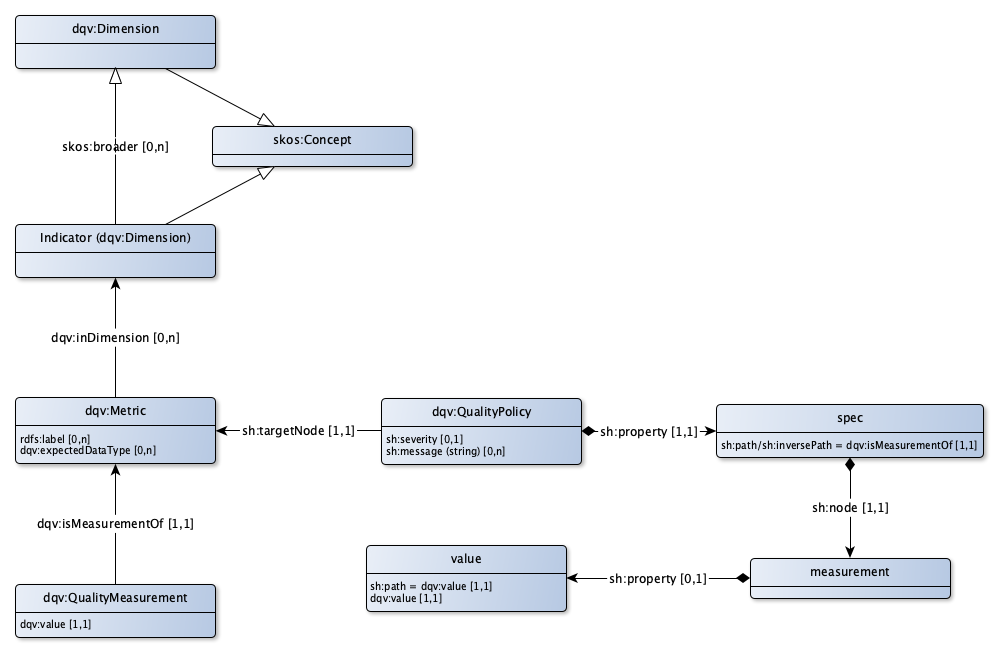
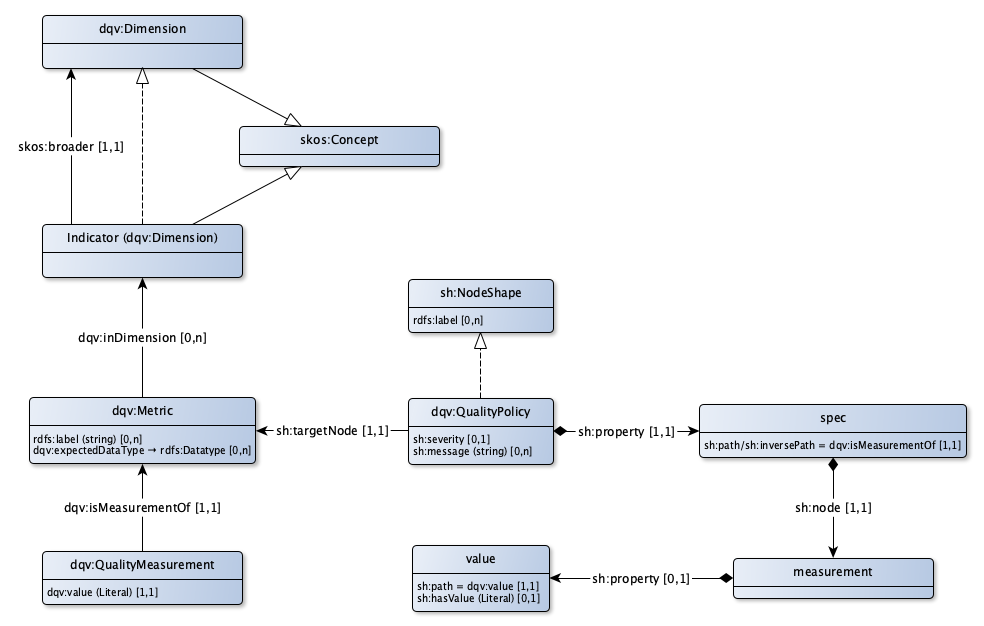
Update dqv

diff --git a/model/dqv-ap-sc.md b/model/dqv-ap-sc.md
@@ -17,7 +17,8 @@ Datakwaliteit
 
 |!form data!Klasse|Kwaliteitsindicator
 |----------|------
-|Eigenschappen en relaties|[http://bp4mc2.org/profiles/dqv-ap-sc#QualityIndicator_broader](http://bp4mc2.org/profiles/dqv-ap-sc#QualityIndicator_broader)
+|Getypeerd als|[dqv:Dimension](http://www.w3.org/ns/dqv#Dimension)
+|Eigenschappen en relaties|[Specialisatie van](http://bp4mc2.org/profiles/dqv-ap-sc#QualityIndicator_broader)
 
 
 ## Meting
@@ -25,72 +26,83 @@ Datakwaliteit
 |!form data!Klasse|Meetfunctie
 |----------|------
 |Gebruikte term|[dqv:Metric](http://www.w3.org/ns/dqv#Metric)
-|Eigenschappen en relaties|[http://bp4mc2.org/profiles/dqv-ap-sc#Metric_inDimension](http://bp4mc2.org/profiles/dqv-ap-sc#Metric_inDimension), [http://bp4mc2.org/profiles/dqv-ap-sc#Metric_label](http://bp4mc2.org/profiles/dqv-ap-sc#Metric_label), [http://bp4mc2.org/profiles/dqv-ap-sc#Metric_expectedDataType](http://bp4mc2.org/profiles/dqv-ap-sc#Metric_expectedDataType)
+|Eigenschappen en relaties|[Verwachtte datatype](http://bp4mc2.org/profiles/dqv-ap-sc#Metric_expectedDataType), [in dimensie](http://bp4mc2.org/profiles/dqv-ap-sc#Metric_inDimension), [Label](http://bp4mc2.org/profiles/dqv-ap-sc#Metric_label)
 
 
 ### Eigenschappen
 
+|!form data!Eigenschap|Label
+|----------|------
+|Gebruikte term|[rdfs:label](http://www.w3.org/2000/01/rdf-schema#label)
+|Datatype|[Tekst](http://www.w3.org/2001/XMLSchema#string)
+|Uitleg|Een meting kent een voor mensen leesbaar label
+
 
 ### Relaties
 
-|!form data!Eigenschap|Waarde
+|!form data!Eigenschap|Verwachtte datatype
 |----------|------
 |Gebruikte term|[dqv:expectedDataType](http://www.w3.org/ns/dqv#expectedDataType)
+|Verwijst naar|[rdfs:Datatype](http://www.w3.org/2000/01/rdf-schema#Datatype)
+|Uitleg|Het te verwachten datatype van de meting
 
-|!form data!Eigenschap|Waarde
+|!form data!Eigenschap|in dimensie
 |----------|------
 |Gebruikte term|[dqv:inDimension](http://www.w3.org/ns/dqv#inDimension)
 |Relatie met|[Kwaliteitsindicator](http://bp4mc2.org/profiles/dqv-ap-sc#QualityIndicator)
-
-|!form data!Eigenschap|Waarde
-|----------|------
-|Gebruikte term|[rdfs:label](http://www.w3.org/2000/01/rdf-schema#label)
+|Uitleg|Een meting betreft een kwaliteitsdimensie
 
 
 ## Kwaliteitsmeetwaarde
 
-|!form data!Klasse|Waarde
+|!form data!Klasse|Kwaliteitsmeetwaarde
 |----------|------
 |Gebruikte term|[dqv:QualityMeasurement](http://www.w3.org/ns/dqv#QualityMeasurement)
-|Eigenschappen en relaties|[http://bp4mc2.org/profiles/dqv-ap-sc#QualityMeasurement_isMeasurementOf](http://bp4mc2.org/profiles/dqv-ap-sc#QualityMeasurement_isMeasurementOf), [http://bp4mc2.org/profiles/dqv-ap-sc#QualityMeasurement_value](http://bp4mc2.org/profiles/dqv-ap-sc#QualityMeasurement_value)
+|Eigenschappen en relaties|[is meetwaarde van](http://bp4mc2.org/profiles/dqv-ap-sc#QualityMeasurement_isMeasurementOf), [waarde](http://bp4mc2.org/profiles/dqv-ap-sc#QualityMeasurement_value)
 
 
 ### Eigenschappen
 
-
-### Relaties
-
-|!form data!Eigenschap|Waarde
+|!form data!Eigenschap|waarde
 |----------|------
-|nodeKind|[http://www.w3.org/ns/shacl#BlankNode](http://www.w3.org/ns/shacl#BlankNode)
-|Gebruikte term|[sh:property](http://www.w3.org/ns/shacl#property)
-|Relatie met|[http://bp4mc2.org/profiles/dqv-ap-sc#QualityPolicySpec](http://bp4mc2.org/profiles/dqv-ap-sc#QualityPolicySpec)
-|Min card.|1
-|Max card.|1
-
-|!form data!Eigenschap|Waarde
-|----------|------
-|Max card.|1
-
-|!form data!Eigenschap|Waarde
-|----------|------
-|Verwijst naar|[dqv:Metric](http://www.w3.org/ns/dqv#Metric)
+|Gebruikte term|[dqv:value](http://www.w3.org/ns/dqv#value)
+|Datatype|[rdfs:Literal](http://www.w3.org/2000/01/rdf-schema#Literal)
+|Uitleg|De uitkomst van de meting, de waarde
 |Min card.|1
 |Max card.|1
 
 
 ### Relaties
 
-|!form data!Eigenschap|Waarde
+|!form data!Eigenschap|is meetwaarde van
 |----------|------
 |Gebruikte term|[dqv:isMeasurementOf](http://www.w3.org/ns/dqv#isMeasurementOf)
 |Verwijst naar|[dqv:Metric](http://www.w3.org/ns/dqv#Metric)
+|Uitleg|Geeft de meting aan waar deze meetwaarde een uitkomst van is
 |Min card.|1
 |Max card.|1
 
-|!form data!Eigenschap|Waarde
+
+### Relaties
+
+|!form data!Eigenschap|eigenschap
 |----------|------
-|Gebruikte term|[dqv:value](http://www.w3.org/ns/dqv#value)
+|nodeKind|[http://www.w3.org/ns/shacl#BlankNode](http://www.w3.org/ns/shacl#BlankNode)
+|Gebruikte term|[sh:property](http://www.w3.org/ns/shacl#property)
+|Relatie met|[Specificatie van de eis](http://bp4mc2.org/profiles/dqv-ap-sc#QualityPolicySpec)
+|Uitleg|De regel behorende bij de kwaliteitseis
+|Min card.|1
+|Max card.|1
+
+|!form data!Eigenschap|ernst
+|----------|------
+|Uitleg|De ernst van de kwaliteitseis
+|Max card.|1
+
+|!form data!Eigenschap|betreft
+|----------|------
+|Verwijst naar|[dqv:Metric](http://www.w3.org/ns/dqv#Metric)
+|Uitleg|De meting waar deze kwaliteitseis voor geldt
 |Min card.|1
 |Max card.|1
 
@@ -99,13 +111,15 @@ Datakwaliteit
 
 |!form data!Klasse|Kwaliteitseis
 |----------|------
-|Eigenschappen en relaties|[http://bp4mc2.org/profiles/dqv-ap-sc#QualityPolicy_targetNode](http://bp4mc2.org/profiles/dqv-ap-sc#QualityPolicy_targetNode), [http://bp4mc2.org/profiles/dqv-ap-sc#QualityPolicy_severity](http://bp4mc2.org/profiles/dqv-ap-sc#QualityPolicy_severity), [http://bp4mc2.org/profiles/dqv-ap-sc#QualityPolicy_message](http://bp4mc2.org/profiles/dqv-ap-sc#QualityPolicy_message), [http://bp4mc2.org/profiles/dqv-ap-sc#QualityPolicy_property](http://bp4mc2.org/profiles/dqv-ap-sc#QualityPolicy_property)
+|Getypeerd als|[sh:NodeShape](http://www.w3.org/ns/shacl#NodeShape)
+|Eigenschappen en relaties|[melding](http://bp4mc2.org/profiles/dqv-ap-sc#QualityPolicy_message), [eigenschap](http://bp4mc2.org/profiles/dqv-ap-sc#QualityPolicy_property), [ernst](http://bp4mc2.org/profiles/dqv-ap-sc#QualityPolicy_severity), [betreft](http://bp4mc2.org/profiles/dqv-ap-sc#QualityPolicy_targetNode)
 
 
 ### Eigenschappen
 
-|!form data!Eigenschap|Waarde
+|!form data!Eigenschap|melding
 |----------|------
 |Datatype|[Tekst](http://www.w3.org/2001/XMLSchema#string)
+|Uitleg|De melding die gerapporteerd wordt als de meting niet voldoet aan de kwaliteitseis
 
 

diff --git a/model/en/dqv-ap-sc.md b/model/en/dqv-ap-sc.md
@@ -17,7 +17,8 @@ Data quality
 
 |!form data!Klasse|Quality indicator
 |----------|------
-|Properties en relations|[http://bp4mc2.org/profiles/dqv-ap-sc#QualityIndicator_broader](http://bp4mc2.org/profiles/dqv-ap-sc#QualityIndicator_broader)
+|Typed as|[dqv:Dimension](http://www.w3.org/ns/dqv#Dimension)
+|Properties en relations|[Specialization of](http://bp4mc2.org/profiles/dqv-ap-sc#QualityIndicator_broader)
 
 
 ## Metric
@@ -25,72 +26,83 @@ Data quality
 |!form data!Klasse|Quality metric
 |----------|------
 |Used term|[dqv:Metric](http://www.w3.org/ns/dqv#Metric)
-|Properties en relations|[http://bp4mc2.org/profiles/dqv-ap-sc#Metric_inDimension](http://bp4mc2.org/profiles/dqv-ap-sc#Metric_inDimension), [http://bp4mc2.org/profiles/dqv-ap-sc#Metric_label](http://bp4mc2.org/profiles/dqv-ap-sc#Metric_label), [http://bp4mc2.org/profiles/dqv-ap-sc#Metric_expectedDataType](http://bp4mc2.org/profiles/dqv-ap-sc#Metric_expectedDataType)
+|Properties en relations|[Expected datatype](http://bp4mc2.org/profiles/dqv-ap-sc#Metric_expectedDataType), [in dimension](http://bp4mc2.org/profiles/dqv-ap-sc#Metric_inDimension), [Label](http://bp4mc2.org/profiles/dqv-ap-sc#Metric_label)
 
 
 ### Properties
 
+|!form data!Eigenschap|Label
+|----------|------
+|Used term|[rdfs:label](http://www.w3.org/2000/01/rdf-schema#label)
+|Datatype|[Text](http://www.w3.org/2001/XMLSchema#string)
+|Description|A metric has a human readable label
+
 
 ### Relations
 
-|!form data!Eigenschap|Waarde
+|!form data!Eigenschap|Expected datatype
 |----------|------
 |Used term|[dqv:expectedDataType](http://www.w3.org/ns/dqv#expectedDataType)
+|Refers to|[rdfs:Datatype](http://www.w3.org/2000/01/rdf-schema#Datatype)
+|Description|The expected datatype of the metric
 
-|!form data!Eigenschap|Waarde
+|!form data!Eigenschap|in dimension
 |----------|------
 |Used term|[dqv:inDimension](http://www.w3.org/ns/dqv#inDimension)
 |Related with|[Quality indicator](http://bp4mc2.org/profiles/dqv-ap-sc#QualityIndicator)
-
-|!form data!Eigenschap|Waarde
-|----------|------
-|Used term|[rdfs:label](http://www.w3.org/2000/01/rdf-schema#label)
+|Description|A metric is within a particular quality dimension
 
 
 ## Quality measurement
 
-|!form data!Klasse|Waarde
+|!form data!Klasse|Quality measurement
 |----------|------
 |Used term|[dqv:QualityMeasurement](http://www.w3.org/ns/dqv#QualityMeasurement)
-|Properties en relations|[http://bp4mc2.org/profiles/dqv-ap-sc#QualityMeasurement_isMeasurementOf](http://bp4mc2.org/profiles/dqv-ap-sc#QualityMeasurement_isMeasurementOf), [http://bp4mc2.org/profiles/dqv-ap-sc#QualityMeasurement_value](http://bp4mc2.org/profiles/dqv-ap-sc#QualityMeasurement_value)
+|Properties en relations|[is measurement of](http://bp4mc2.org/profiles/dqv-ap-sc#QualityMeasurement_isMeasurementOf), [value](http://bp4mc2.org/profiles/dqv-ap-sc#QualityMeasurement_value)
 
 
 ### Properties
 
-
-### Relations
-
-|!form data!Eigenschap|Waarde
+|!form data!Eigenschap|value
 |----------|------
-|nodeKind|[http://www.w3.org/ns/shacl#BlankNode](http://www.w3.org/ns/shacl#BlankNode)
-|Used term|[sh:property](http://www.w3.org/ns/shacl#property)
-|Related with|[http://bp4mc2.org/profiles/dqv-ap-sc#QualityPolicySpec](http://bp4mc2.org/profiles/dqv-ap-sc#QualityPolicySpec)
-|Min card.|1
-|Max card.|1
-
-|!form data!Eigenschap|Waarde
-|----------|------
-|Max card.|1
-
-|!form data!Eigenschap|Waarde
-|----------|------
-|Refers to|[dqv:Metric](http://www.w3.org/ns/dqv#Metric)
+|Used term|[dqv:value](http://www.w3.org/ns/dqv#value)
+|Datatype|[rdfs:Literal](http://www.w3.org/2000/01/rdf-schema#Literal)
+|Description|The result of the measurement, de value
 |Min card.|1
 |Max card.|1
 
 
 ### Relations
 
-|!form data!Eigenschap|Waarde
+|!form data!Eigenschap|is measurement of
 |----------|------
 |Used term|[dqv:isMeasurementOf](http://www.w3.org/ns/dqv#isMeasurementOf)
 |Refers to|[dqv:Metric](http://www.w3.org/ns/dqv#Metric)
+|Description|States the metric that is measured by this measurement
 |Min card.|1
 |Max card.|1
 
-|!form data!Eigenschap|Waarde
+
+### Relations
+
+|!form data!Eigenschap|property
 |----------|------
-|Used term|[dqv:value](http://www.w3.org/ns/dqv#value)
+|nodeKind|[http://www.w3.org/ns/shacl#BlankNode](http://www.w3.org/ns/shacl#BlankNode)
+|Used term|[sh:property](http://www.w3.org/ns/shacl#property)
+|Related with|[Policy specification](http://bp4mc2.org/profiles/dqv-ap-sc#QualityPolicySpec)
+|Description|The rule that belongs to the quality policy
+|Min card.|1
+|Max card.|1
+
+|!form data!Eigenschap|severity
+|----------|------
+|Description|The severity of the quality policy
+|Max card.|1
+
+|!form data!Eigenschap|target
+|----------|------
+|Refers to|[dqv:Metric](http://www.w3.org/ns/dqv#Metric)
+|Description|The metric for which this quality policy holds
 |Min card.|1
 |Max card.|1
 
@@ -99,13 +111,15 @@ Data quality
 
 |!form data!Klasse|Quality policy
 |----------|------
-|Properties en relations|[http://bp4mc2.org/profiles/dqv-ap-sc#QualityPolicy_targetNode](http://bp4mc2.org/profiles/dqv-ap-sc#QualityPolicy_targetNode), [http://bp4mc2.org/profiles/dqv-ap-sc#QualityPolicy_severity](http://bp4mc2.org/profiles/dqv-ap-sc#QualityPolicy_severity), [http://bp4mc2.org/profiles/dqv-ap-sc#QualityPolicy_message](http://bp4mc2.org/profiles/dqv-ap-sc#QualityPolicy_message), [http://bp4mc2.org/profiles/dqv-ap-sc#QualityPolicy_property](http://bp4mc2.org/profiles/dqv-ap-sc#QualityPolicy_property)
+|Typed as|[sh:NodeShape](http://www.w3.org/ns/shacl#NodeShape)
+|Properties en relations|[message](http://bp4mc2.org/profiles/dqv-ap-sc#QualityPolicy_message), [property](http://bp4mc2.org/profiles/dqv-ap-sc#QualityPolicy_property), [severity](http://bp4mc2.org/profiles/dqv-ap-sc#QualityPolicy_severity), [target](http://bp4mc2.org/profiles/dqv-ap-sc#QualityPolicy_targetNode)
 
 
 ### Properties
 
-|!form data!Eigenschap|Waarde
+|!form data!Eigenschap|message
 |----------|------
 |Datatype|[Text](http://www.w3.org/2001/XMLSchema#string)
+|Description|The message that is reported if the measurement doesn't comply with the quality policy
 
 

diff --git a/model/en/skos-ap-sc.md b/model/en/skos-ap-sc.md
@@ -242,7 +242,7 @@ SKOS is used to describe concepts. SKOS is a standard on the appy-or-explain lis
 
 |!form data!Klasse|Asset (ConceptScheme)
 |----------|------
-|Typed as|[adms:Asset](http://www.w3.org/ns/adms#Asset), [skos:ConceptScheme](http://www.w3.org/2004/02/skos/core#ConceptScheme)
+|Typed as|[skos:ConceptScheme](http://www.w3.org/2004/02/skos/core#ConceptScheme), [adms:Asset](http://www.w3.org/ns/adms#Asset)
 |Description|A concept scheme can be identified as an asset.
 |Properties en relations|[type asset = Concept scheme](http://bp4mc2.org/profiles/skos-ap-sc#AssetConceptScheme_typeConceptScheme)
 
